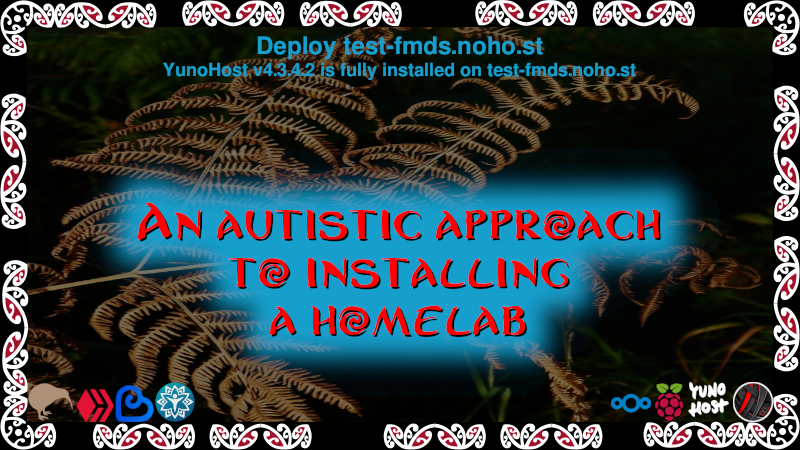
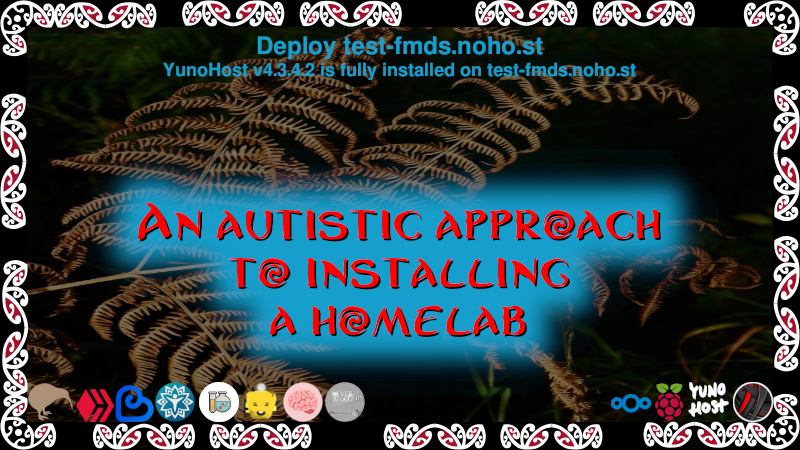
Working on HivePUD post for Feb-2022.

Changed region(s): [[0.25, 0.84, 0.4688, 0.9333]]

diff --git a/drafts/n.d._hive-pud-feb-2022/post.html b/drafts/n.d._hive-pud-feb-2022/post.html
@@ -1,0 +1,68 @@
+<!-- @format -->
+
+<!--
+
+Community: hive-167922 (LEO Finance)
+
+Title: HivePUD Feb-2022, plus monthly account stats
+
+Tags (Content, Community, Tribe): hivepud, hive, hive-progress, hivestats, peakd, proofofbrain, stemgeeks, silverbloggers
+
+-->
+
+<!-- post begins -->
+<div class="text-justify">
+  <p>
+    <center>
+      <img src=""/>
+    </center>
+  </p>
+  <p>
+    <em>My submission for #HivePUD for 1-Feb-2022, and my latest monthly stats showing my account progress, with graphs from #HiveStats and #PeakD.</em>
+  </p>
+  <p>
+    <center>
+      <img src="https://images.ecency.com/DQmdk1kErvvHhZVAaQHHZyu8GcnVw6KQz9CPs2voEHh2YGn/maori_divider.png"/>
+    </center>
+  </p>
+  <h1>HivePUD Feb-2022, plus monthly account stats</h1>
+  <h2>Powering up at least $ʰⁱᵛᵉ10.00 as HP.</h2>
+  <p></p>
+  <p></p>
+  <h2>Acknowledging where this $ʰⁱᵛᵉ came from.</h2>
+  <p><!-- Gifts received --></p>
+  <p><!-- Curation on my posts --></p>
+  <p><!-- Competitions and other sources --></p>
+  <p></p>
+  <p>
+    <center>
+      <img src="https://images.ecency.com/DQmdk1kErvvHhZVAaQHHZyu8GcnVw6KQz9CPs2voEHh2YGn/maori_divider.png"/>
+    </center>
+  </p>
+  <h2>My monthly account stats.</h2>
+  <p><!-- Briefly review my position as at last month. --></p>
+  <p><!-- Screenshots from PeakD, with brief analysis text --></p>
+  <p><!-- Screenshots from Hive.Stats, with brief analysis text --></p>
+  <p><!-- Position statement --></p>
+  <p>
+    <center>
+      <img src="https://images.ecency.com/DQmdk1kErvvHhZVAaQHHZyu8GcnVw6KQz9CPs2voEHh2YGn/maori_divider.png"/>
+    </center>
+  </p>
+</div>
+<h2>Image Credits</h2>
+<sub>
+<ol>
+<li><strong>post-head.png</strong> – Remix created by @frittro, using elements by <a href="https://all-free-download.com/free-vector/download/maori_border_pattern_119722.html" target="_blank">@pantone801</a>; </li>
+<li>Various "fair use" organisation and company logos, including Hive, Steem, NZ Heart Fdn, Mental Health Fdn of NZ, etc.</li>
+<li><strong></strong> – Original photos by @frittro.</li>
+<li><strong>maori-divider.png</strong> – Original image by <a href="https://all-free-download.com/free-vector/download/maori_border_pattern_119722.html" target="_blank">@pantone801</a>. Remix created by @frittro.</li>
+<li><strong>frittro-maori-footer.png</strong> – Remix created by @frittro, using elements by <a href="https://all-free-download.com/free-vector/download/maori_border_pattern_119722.html" target="_blank">@pantone801</a>; </li>
+</ol>
+</sub>
+  <center>
+    <img src="https://images.ecency.com/DQmZbXY6muX5FAGLvk64eiVXLRiYaArXCHyq697y7HBcKoU/frittro_maori_footer.png"/>
+  </center>
+</p>
+
+<!-- post ends -->

diff --git a/drafts/n.d._hive-pud-feb-2022/test-extract-data.html b/drafts/n.d._hive-pud-feb-2022/test-extract-data.html
@@ -1,0 +1,48 @@
+<!-- @format -->
+
+<div
+  class="sweet-modal theme-light has-title has-content is-mobile-fullscreen is-visible"
+  style="width: 90%; max-width: none"
+>
+  <div class="sweet-box-actions">
+    <div class="sweet-action-close">
+      <svg
+        xmlns="http://www.w3.org/2000/svg"
+        width="24"
+        height="24"
+        viewBox="0 0 24 24"
+      >
+        <path
+          d="M19 6.41L17.59 5 12 10.59 6.41 5 5 6.41 10.59 12 5 17.59 6.41 19 12 13.41 17.59 19 19 17.59 13.41 12z"
+          fill="#292c34"
+        ></path>
+      </svg>
+    </div>
+  </div>
+  <div class="sweet-title">
+    <!---->
+    <h2>Account Growth</h2>
+  </div>
+  <!---->
+  <div class="sweet-content">
+    <!----><!----><!----><!---->
+    <div class="sweet-content-content">
+      <div data-v-77e09fd4="" class="chart-container">
+        <div data-v-77e09fd4="" class="" style="height: 600px">
+          <div class="chartjs-size-monitor">
+            <div class="chartjs-size-monitor-expand"><div class=""></div></div>
+            <div class="chartjs-size-monitor-shrink"><div class=""></div></div>
+          </div>
+          <canvas
+            id="line-chart"
+            width="1077"
+            height="600"
+            class="chartjs-render-monitor"
+            style="display: block; width: 1077px; height: 600px"
+          ></canvas>
+        </div>
+      </div>
+    </div>
+  </div>
+  <!---->
+</div>
